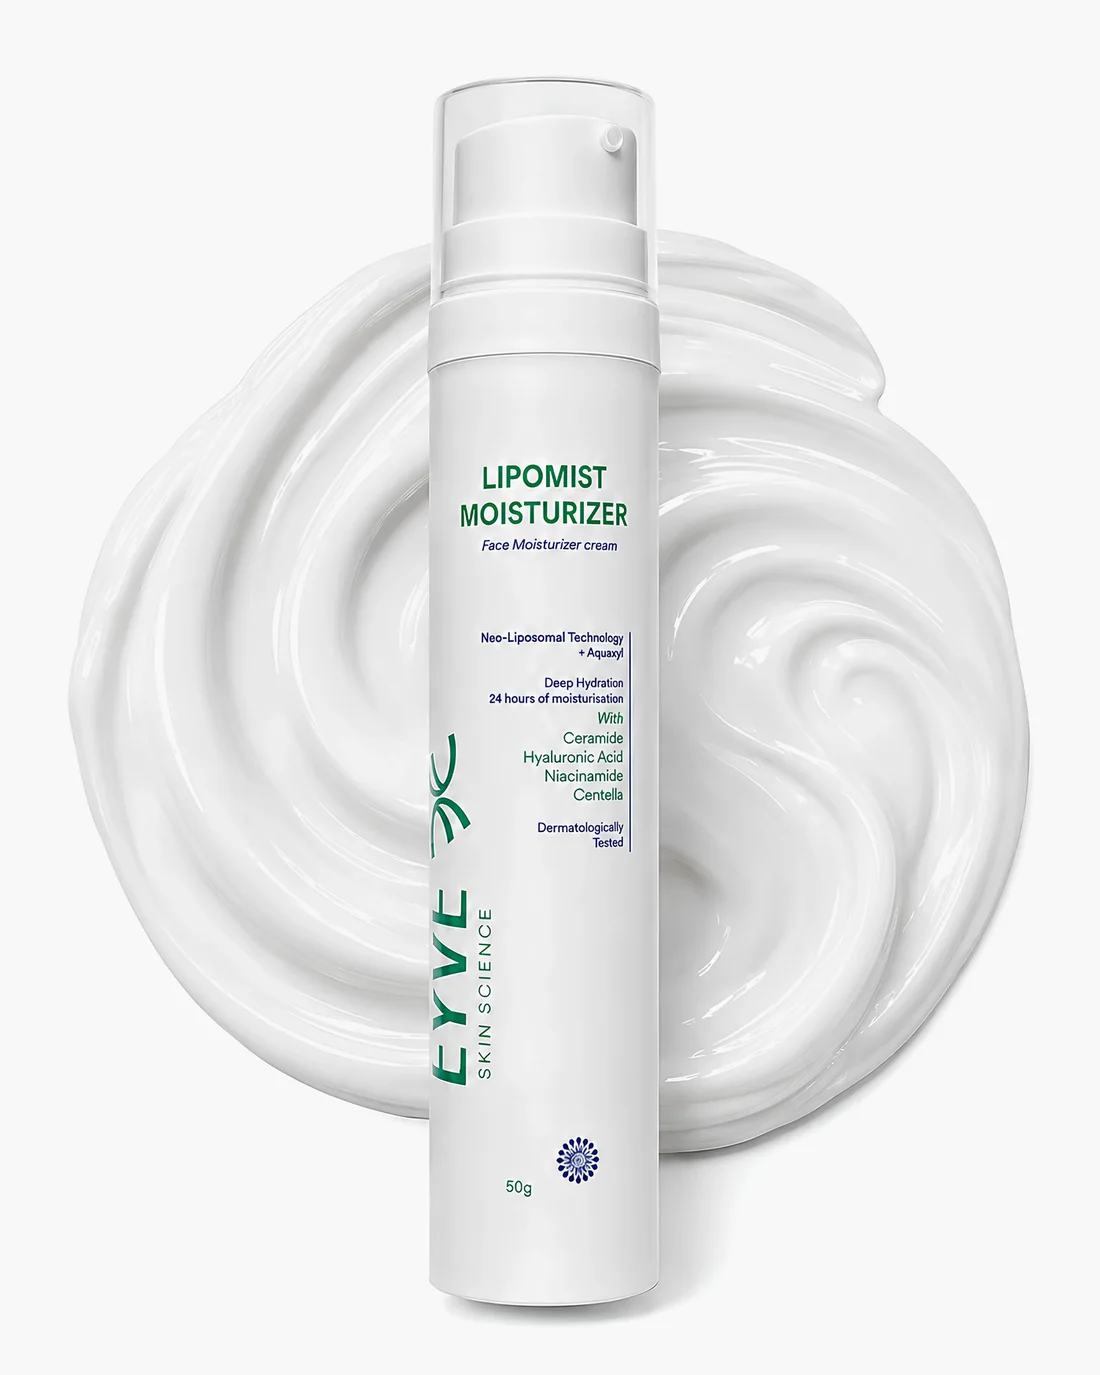
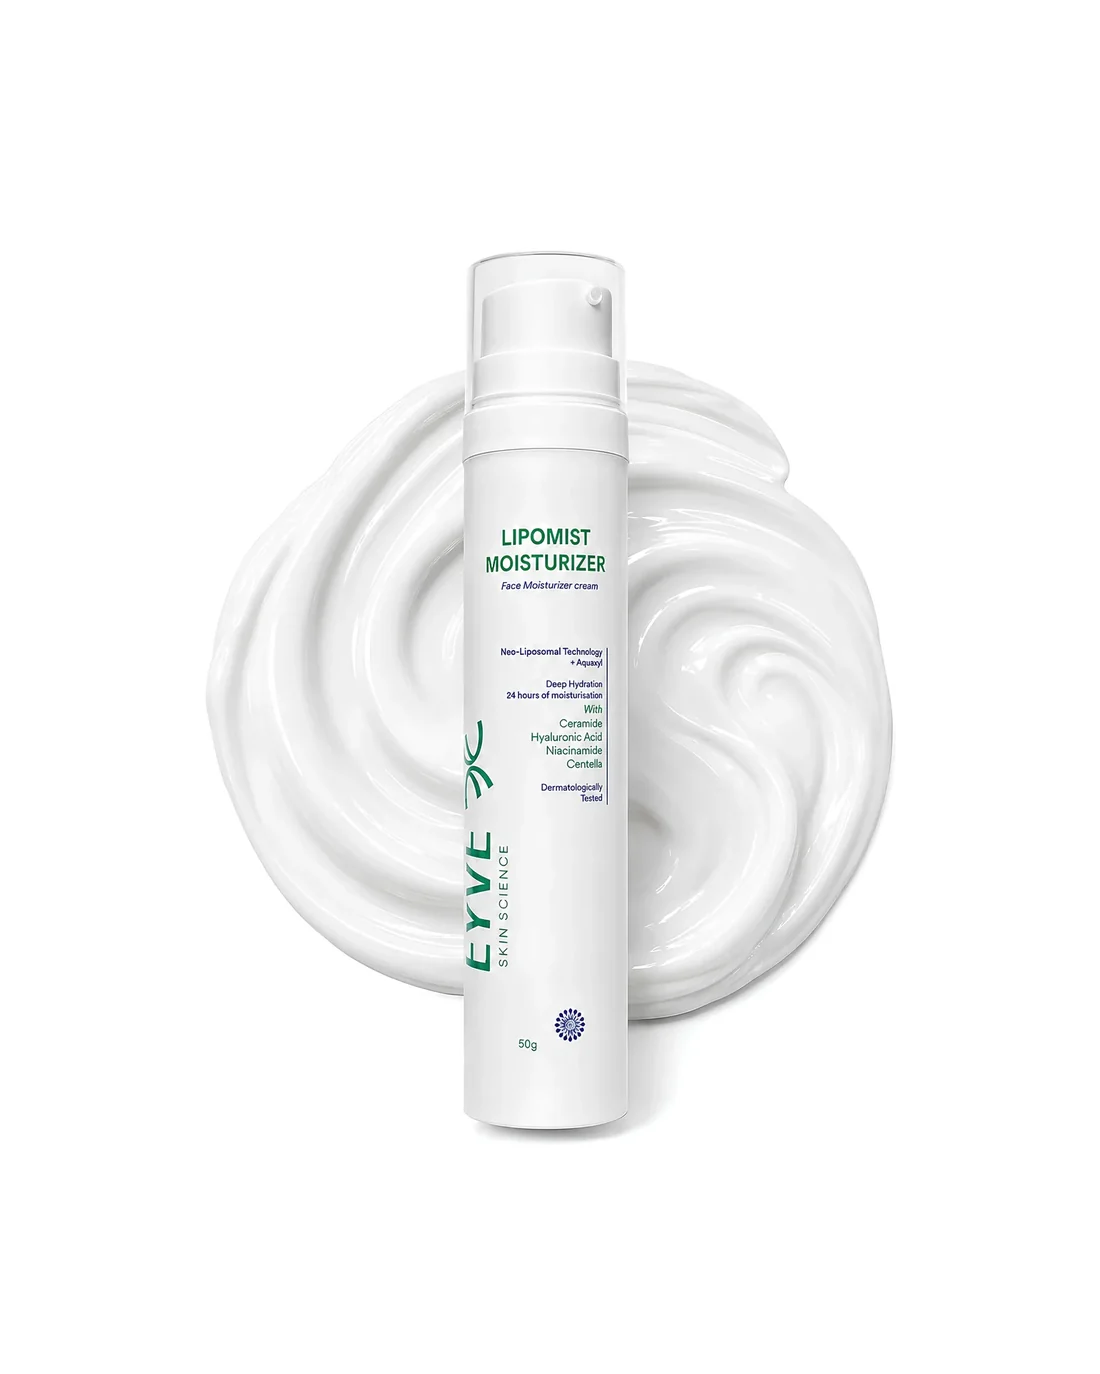
Give product shots room and open up the section rhythm
Product images were filling their frames edge to edge. Padded each
shot by 20% against its own ground and normalised all five to one white
balance, so the range reads as a single shoot.

Section padding was too tight after the last pass. Restored the roomier
scale and kept the three-step variation.

Bag is an icon with a count badge instead of the word. Nav numerals
removed.

Changed region(s): [[0.0618, 0.0611, 0.9582, 0.9782], [0.4327, 0.0306, 0.5255, 0.0611], [0.4945, 0.7336, 0.5255, 0.7642]]

diff --git a/assets/css/style.css b/assets/css/style.css
@@ -72,9 +72,9 @@
   --s-5: 3.5rem;
   --s-6: 5.5rem;
   --s-7: 8rem;
-  --s-section:    clamp(3.5rem, 7vw, 7rem);
-  --s-section-lg: clamp(5rem, 10.5vw, 10.5rem);
-  --s-section-sm: clamp(2.5rem, 4.5vw, 4.5rem);
+  --s-section:    clamp(4.5rem, 9vw, 9rem);
+  --s-section-lg: clamp(6rem, 12vw, 12rem);
+  --s-section-sm: clamp(3.5rem, 7vw, 7rem);
 
   /* Shell */
   --rail: 110px;
@@ -345,7 +345,7 @@ table { border-collapse: collapse; width: 100%; }
 .hero {
   position: relative;
   padding-top: calc(var(--rail) + var(--s-5));
-  padding-bottom: var(--s-6);
+  padding-bottom: var(--s-7);
   overflow: hidden;
   background:
     radial-gradient(120% 90% at 78% 8%, var(--indigo-wash) 0%, transparent 58%),
@@ -642,14 +642,15 @@ table { border-collapse: collapse; width: 100%; }
 /* --- Products ----------------------------------------------------------- */
 .prods { background: var(--mist); }
 .prods__grid {
-  margin-top: var(--s-5);
+  margin-top: var(--s-6);
   display: grid;
-  grid-template-columns: repeat(3, 1fr);
-  column-gap: clamp(1.75rem, 3vw, 3rem);
-  row-gap: 5rem;
+  grid-template-columns: repeat(5, 1fr);
+  column-gap: clamp(1rem, 1.6vw, 1.6rem);
+  row-gap: 4.5rem;
 }
 .prods__grid--3 { grid-template-columns: repeat(3, 1fr); }
 
+@media (max-width: 1180px) { .prods__grid { grid-template-columns: repeat(3, 1fr); column-gap: clamp(1.5rem, 2.6vw, 2.5rem); } }
 @media (max-width: 820px)  { .prods__grid { grid-template-columns: repeat(2, 1fr); } }
 @media (max-width: 520px)  { .prods__grid { grid-template-columns: 1fr; row-gap: var(--s-5); } }
 
@@ -662,13 +663,14 @@ table { border-collapse: collapse; width: 100%; }
   aspect-ratio: 4 / 5;
   overflow: hidden;
   border-radius: 2px;
+  background: var(--white);
 }
 .pcard__fig img {
   width: 100%; height: 100%;
   object-fit: cover;
   transition: transform 800ms var(--ease-out);
 }
-.pcard__link:hover .pcard__fig img { transform: scale(1.035); }
+.pcard__link:hover .pcard__fig img { transform: scale(1.045); }
 
 .pcard__step {
   position: absolute; z-index: 2;
@@ -701,8 +703,8 @@ table { border-collapse: collapse; width: 100%; }
   font-weight: 400;
   text-transform: uppercase;
   letter-spacing: 0.02em;
-  font-size: 1.06rem;
-  line-height: 1.22;
+  font-size: 0.98rem;
+  line-height: 1.25;
   margin-top: 0.55rem;
   text-wrap: pretty;
   transition: color var(--dur-fast) var(--ease);
@@ -710,15 +712,15 @@ table { border-collapse: collapse; width: 100%; }
 .pcard__link:hover .pcard__name { color: var(--indigo); }
 .pcard__desc {
   display: block;
-  font-size: var(--t-small);
+  font-size: 0.82rem;
   color: var(--ink-mute);
-  margin-top: 0.75rem;
+  margin-top: 0.7rem;
   line-height: 1.5;
   flex: 1;}
 
 .pcard__foot {
-  margin-top: 1.15rem;
-  padding-top: 0.9rem;
+  margin-top: 1.1rem;
+  padding-top: 0.85rem;
   border-top: 1px solid var(--line);
   display: flex;
   align-items: center;
@@ -736,10 +738,10 @@ table { border-collapse: collapse; width: 100%; }
 .pcard__size { font-size: 0.72rem; letter-spacing: 0.12em; text-transform: uppercase; color: var(--ink-mute); }
 .pcard__add {
   font-family: var(--mono);
-  font-size: var(--t-label);
-  letter-spacing: 0.14em;
+  font-size: 0.63rem;
+  letter-spacing: 0.12em;
   text-transform: uppercase;
-  padding: 0.6rem 1.05rem;
+  padding: 0.55rem 0.9rem;
   border: 1px solid var(--ink);
   border-radius: 999px;
   background: transparent;
@@ -885,7 +887,7 @@ table { border-collapse: collapse; width: 100%; }
 }
 
 .revs__grid {
-  margin-top: var(--s-4);
+  margin-top: var(--s-5);
   display: grid;
   grid-template-columns: repeat(3, 1fr);
   column-gap: clamp(1.25rem, 2.4vw, 2.25rem);
@@ -1165,7 +1167,7 @@ table { border-collapse: collapse; width: 100%; }
 .gal__main {
   aspect-ratio: 4/5;
   overflow: hidden;
-  background: linear-gradient(165deg, var(--white), var(--mist));
+  background: var(--white);
   border-radius: 3px;
 }
 .gal__main img { width: 100%; height: 100%; object-fit: cover; }
@@ -1440,11 +1442,6 @@ table { border-collapse: collapse; width: 100%; }
 .ftr__pay { letter-spacing: 0.1em; }
 
 /* One ground per formulation, so the range reads art-directed */
-.pcard__fig.tint-mist, .gal__main.tint-mist, .proto__row-fig.tint-mist { background: linear-gradient(165deg, var(--white), var(--mist)); }
-.pcard__fig.tint-sand, .gal__main.tint-sand, .proto__row-fig.tint-sand { background: linear-gradient(165deg, #FBF6EF, var(--sand-pale)); }
-.pcard__fig.tint-blue, .gal__main.tint-blue, .proto__row-fig.tint-blue { background: linear-gradient(165deg, #F7FAFC, #DCE6EE); }
-.pcard__fig.tint-gold, .gal__main.tint-gold, .proto__row-fig.tint-gold { background: linear-gradient(165deg, #FDFAF3, #F0E4CB); }
-.pcard__fig.tint-rose, .gal__main.tint-rose, .proto__row-fig.tint-rose { background: linear-gradient(165deg, #FCF7F8, #EEDEE3); }
 
 .stars { color: #A8834A; letter-spacing: 0.12em; font-size: var(--t-small); display: inline-block; }
 .pdp__solves {
